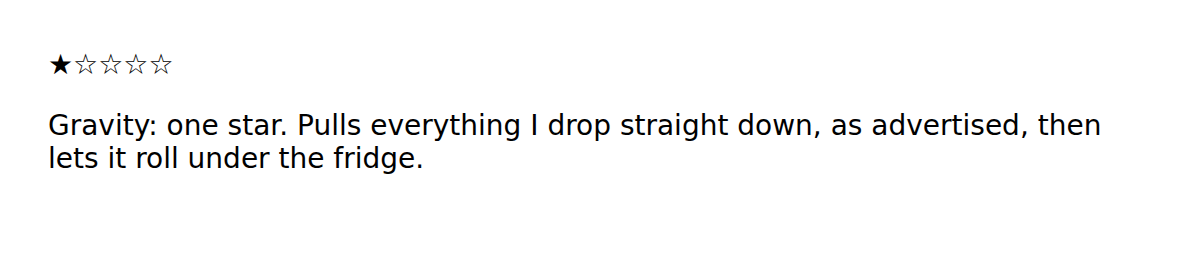
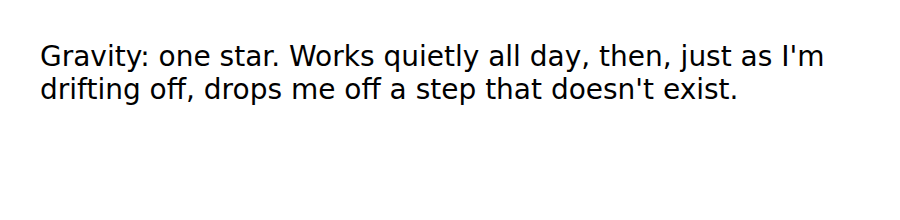
Switch entry to gravity / the falling-asleep jolt

Changed region(s): [[0.0311, 0.3545, 0.9333, 0.5455], [0.0311, 0.1909, 0.9333, 0.3273], [0.0311, 0.5455, 0.3733, 0.6818]]

diff --git a/main.ts b/main.ts
@@ -1,7 +1,7 @@
 import { mkdirSync, writeFileSync } from "node:fs";
 import { join } from "node:path";
 
-const review = "Gravity: one star. Pulls everything I drop straight down, as advertised, then lets it roll under the fridge.";
+const review = "Gravity: one star. Works quietly all day, then, just as I'm drifting off, drops me off a step that doesn't exist.";
 
 const outDir = process.env.OUTPUT_DIR ?? "/output";
 mkdirSync(outDir, { recursive: true });

diff --git a/candidates.md b/candidates.md
@@ -18,3 +18,10 @@ Dropped: 6 (no turn), 5 (two jokes), 4 (curtain gap is good but "absent all wint
 9. The sun: one star. Hid behind clouds all day, then came out at the exact angle of my monitor.
 
 Pick: 7. Universal, physical, never written as gravity's fault; "as advertised" reads straight and the fridge lands last. 8 leans on a call-centre metaphor (second joke); 9 is good but the glare grievance is commoner.
+
+## Round 3 (mock judge 6.5 on gemini-3.5: fridge felt predictable)
+10. Gravity: one star. Works quietly all day, then, just as I'm drifting off, drops me off a step that doesn't exist.
+11. Gravity: one star. Holds my phone perfectly steady all evening, then lowers it onto my face the moment I relax my grip in bed.
+
+Pick: 10. The falling-asleep jolt is universal, belongs to gravity alone, and the review reads straight until "doesn't exist". 11 is the familiar version.
+(10 revised: "Ignores me all day" -> "Works quietly all day"; gravity never ignores anyone, and the quiet-all-day setup makes the night jolt land harder.)
